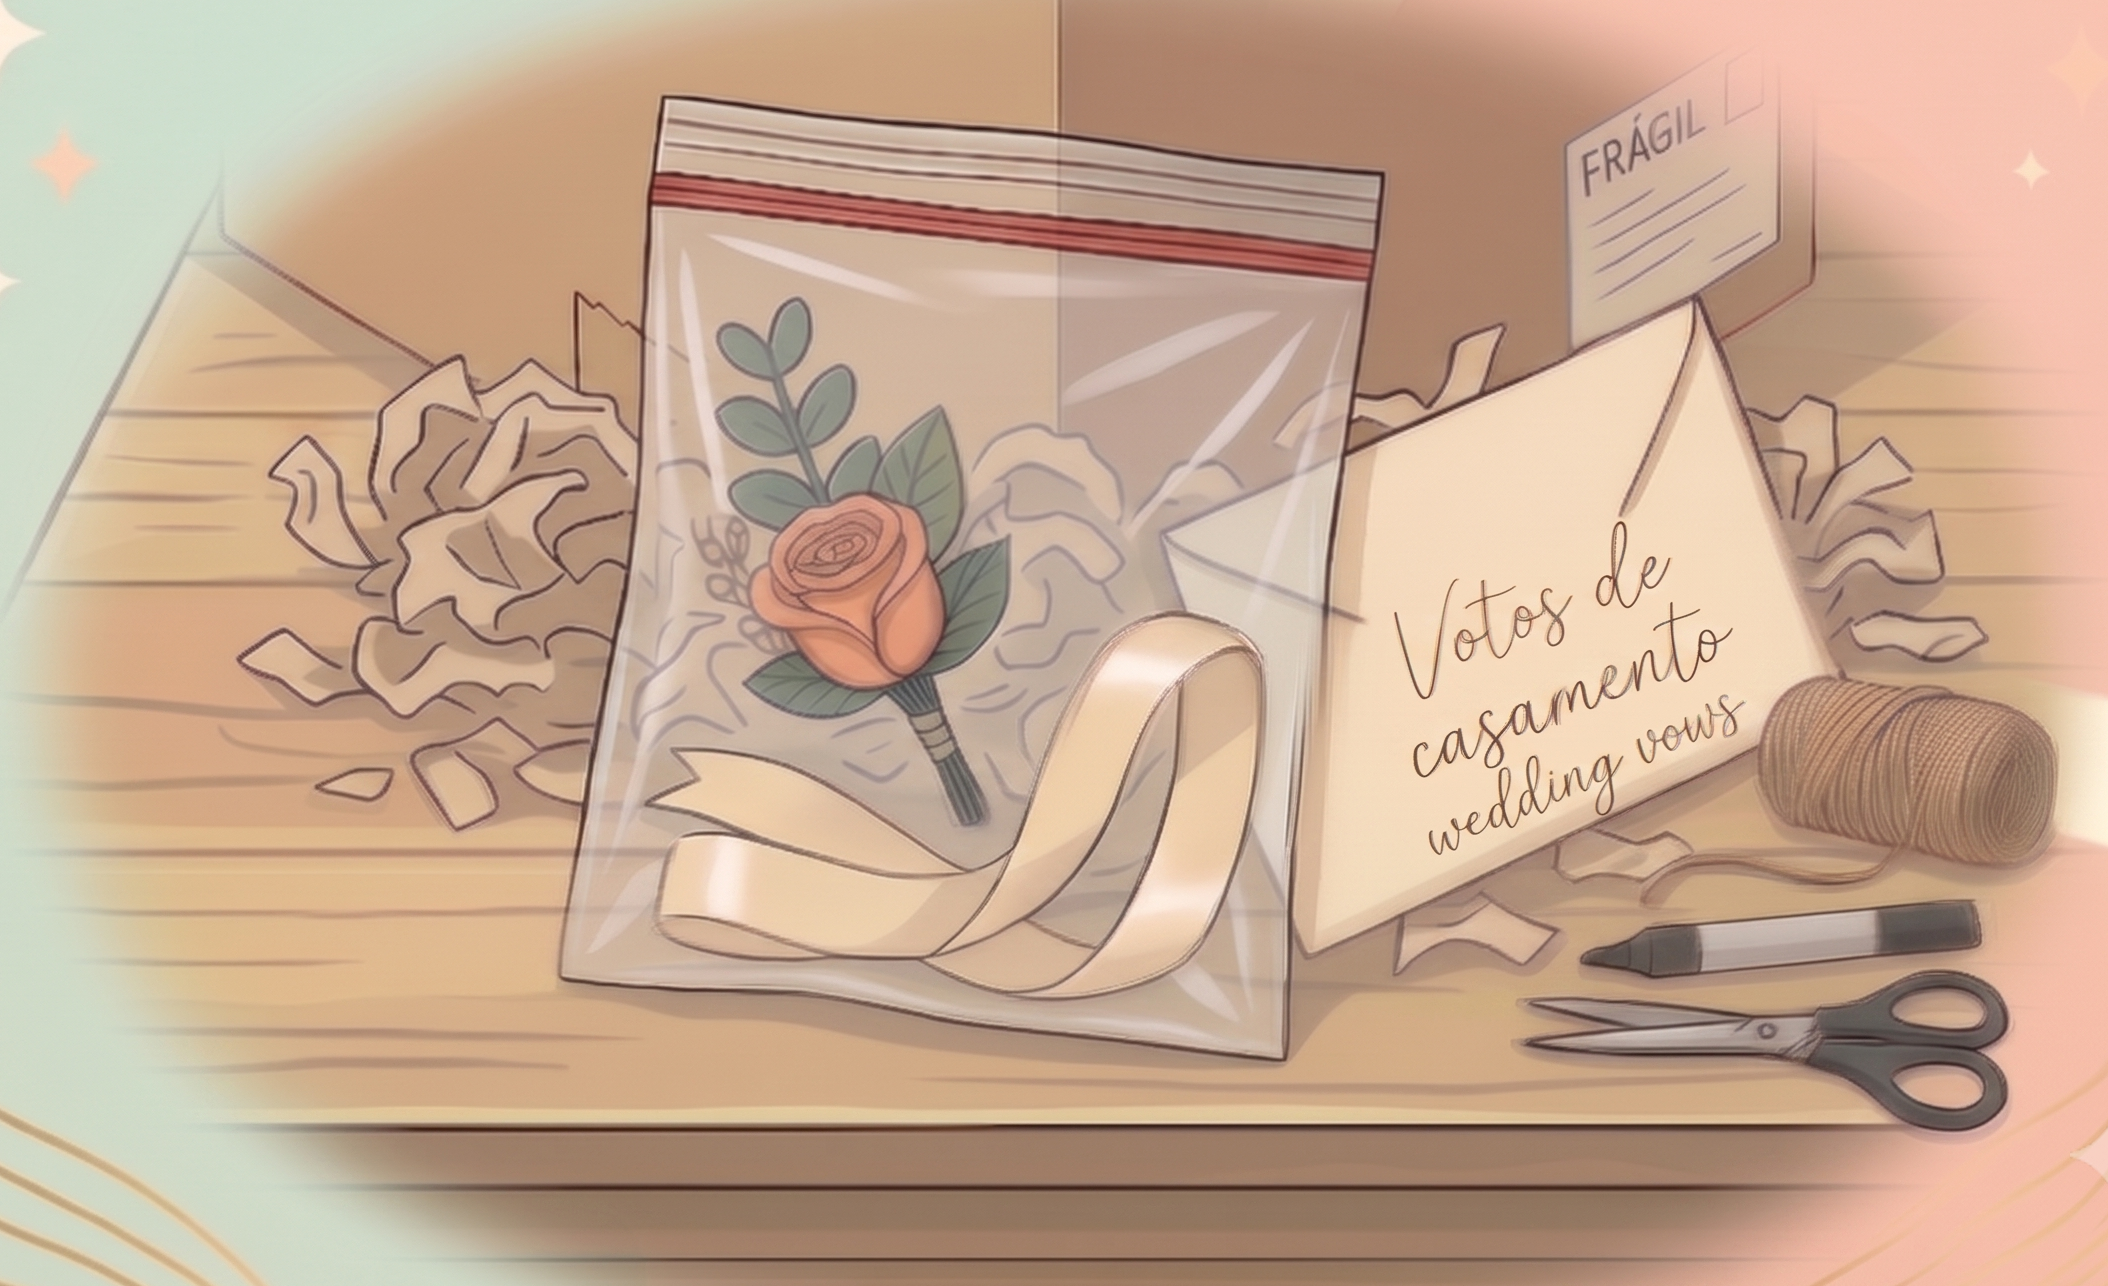
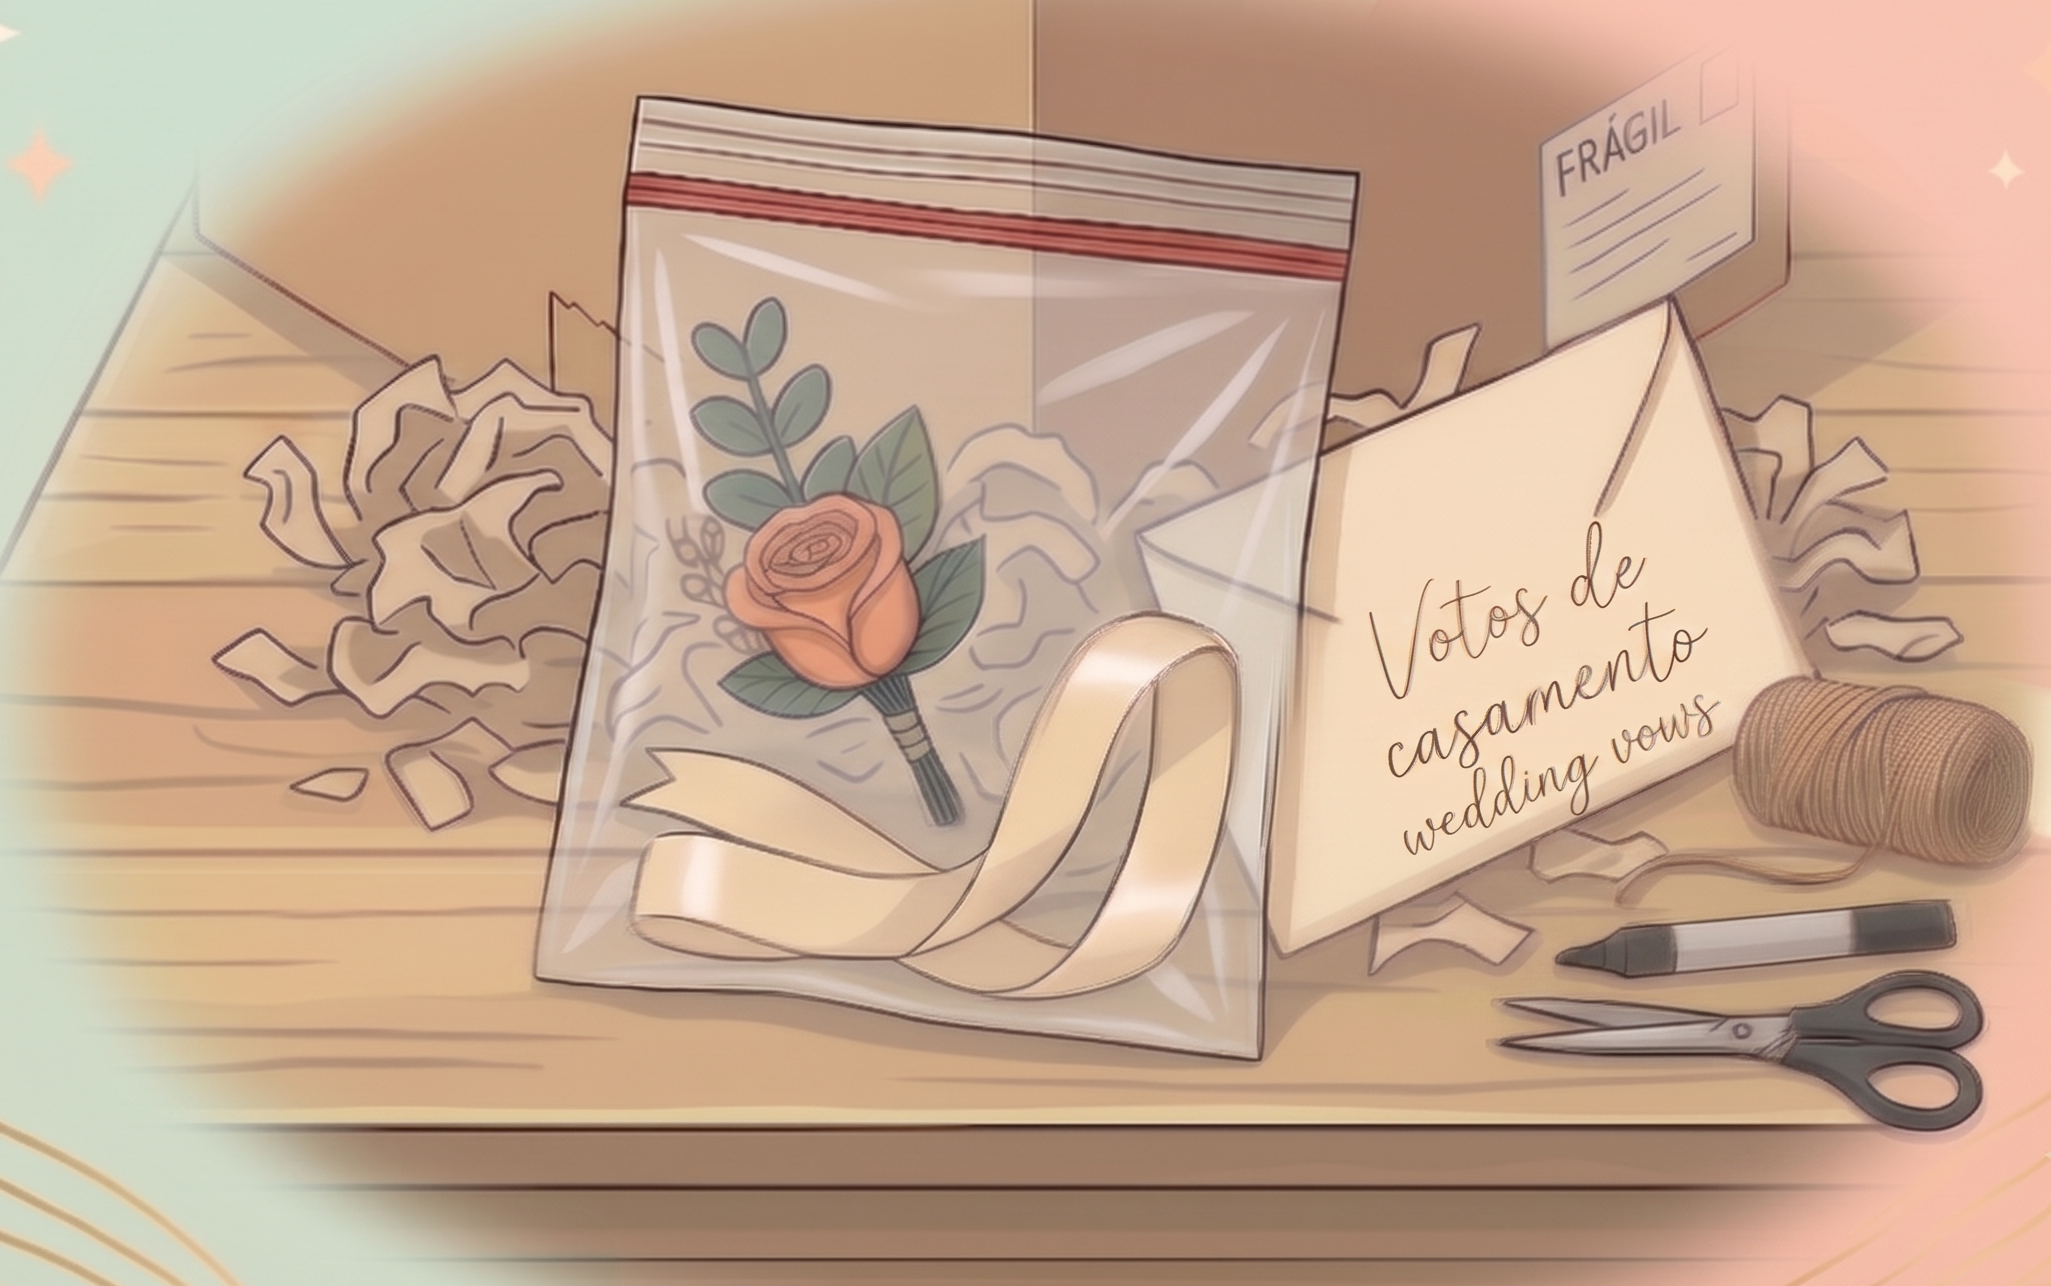
Switch step layout to a uniform card grid
The side-thumbnail timeline looked sparse and uneven on desktop because
the step images have mixed aspect ratios. Replaces it with a two-column
card grid (one column on mobile) where each image fills a uniform 16:10
top via object-fit cover, so all steps render at the same size with no
frame or letterbox. Step number overlaid on the image.

diff --git a/app/enviar-flores-por-correio/EnviarFloresClient.jsx b/app/enviar-flores-por-correio/EnviarFloresClient.jsx
@@ -91,15 +91,15 @@ export default function EnviarFloresClient() {
           </motion.div>
         </header>
 
-        <div style={{ maxWidth: "760px", margin: "0 auto", padding: "clamp(36px,6vw,60px) clamp(20px,5vw,40px) 0" }}>
+        <div style={{ maxWidth: "1000px", margin: "0 auto", padding: "clamp(36px,6vw,60px) clamp(20px,5vw,40px) 0" }}>
 
           {/* ── TIMING NOTE ─────────────────────────────────────────── */}
-          <motion.p {...fadeUp} style={{ padding: "clamp(14px,2.5vw,18px) clamp(16px,3vw,22px)", borderRadius: "12px", backgroundColor: "rgba(200,82,42,0.05)", borderLeft: "3px solid rgba(200,82,42,0.3)", color: "var(--rust)", fontSize: "clamp(0.86rem,1.7vw,0.96rem)", lineHeight: 1.7, margin: "0 0 clamp(40px,7vw,64px)" }}>
+          <motion.p {...fadeUp} style={{ maxWidth: "720px", padding: "clamp(14px,2.5vw,18px) clamp(16px,3vw,22px)", borderRadius: "12px", backgroundColor: "rgba(200,82,42,0.05)", borderLeft: "3px solid rgba(200,82,42,0.3)", color: "var(--rust)", fontSize: "clamp(0.86rem,1.7vw,0.96rem)", lineHeight: 1.7, margin: "0 auto clamp(40px,7vw,64px)" }}>
             {t("introDesc")}
           </motion.p>
 
           {/* ── MATERIALS CHECKLIST ─────────────────────────────────── */}
-          <motion.section {...fadeUp} aria-label={t("materiaisTitle")} style={{ backgroundColor: "#fff", borderRadius: "18px", padding: "clamp(20px,4vw,32px)", border: "1px solid rgba(200,82,42,0.1)", boxShadow: "0 4px 18px rgba(160,60,20,0.05)", marginBottom: "clamp(48px,8vw,72px)" }}>
+          <motion.section {...fadeUp} aria-label={t("materiaisTitle")} style={{ maxWidth: "720px", margin: "0 auto clamp(48px,8vw,72px)", backgroundColor: "#fff", borderRadius: "18px", padding: "clamp(20px,4vw,32px)", border: "1px solid rgba(200,82,42,0.1)", boxShadow: "0 4px 18px rgba(160,60,20,0.05)" }}>
             <div className="ship-materials">
               <div className="ship-materials-img">
                 <Image src={imgMateriais} alt={t("materiaisAlt")} sizes="(max-width: 600px) 260px, 230px" />
@@ -116,36 +116,34 @@ export default function EnviarFloresClient() {
             </div>
           </motion.section>
 
-          {/* ── TIMELINE ────────────────────────────────────────────── */}
+          {/* ── STEP CARDS ──────────────────────────────────────────── */}
           <section aria-label={t("passosTitle")} style={{ marginBottom: "clamp(48px,8vw,72px)" }}>
             <motion.h2 {...fadeUp} style={{ fontFamily: "'TAN-MEMORIES', serif", fontSize: "clamp(1.5rem,3.6vw,2.3rem)", color: "var(--green-d)", textAlign: "center", margin: "0 0 clamp(32px,6vw,52px)", lineHeight: 1.15 }}>
               {t("passosTitle")}
             </motion.h2>
-            <ol className="ship-timeline">
+            <div className="ship-cards">
               {passos.map((step, i) => (
-                <motion.li key={i} {...fadeUp} id={`passo-${i + 1}`} className="ship-tl-item" aria-labelledby={`passo-${i + 1}-title`}>
-                  <span className="ship-tl-num" aria-hidden="true">{step.n}</span>
-                  <div className="ship-tl-content">
-                    <div className="ship-tl-thumb">
-                      <Image src={STEP_IMAGES[i]} alt={step.alt} sizes="(max-width: 560px) 280px, 210px" />
-                    </div>
-                    <div className="ship-tl-body">
-                      <h3 id={`passo-${i + 1}-title`} style={{ fontFamily: "'TAN-MEMORIES', serif", fontSize: "clamp(1.15rem,2.6vw,1.45rem)", color: "var(--green-d)", margin: "0 0 8px", lineHeight: 1.2 }}>
-                        {step.titulo}
-                      </h3>
-                      <p style={{ color: "var(--mid)", lineHeight: 1.75, fontSize: "clamp(0.88rem,1.7vw,0.96rem)", margin: 0 }}>{step.corpo}</p>
-                      {step.nota && (
-                        <p style={{ marginTop: "10px", color: "var(--rust)", fontSize: "clamp(0.8rem,1.5vw,0.86rem)", lineHeight: 1.6, fontStyle: "italic", margin: "10px 0 0" }}>{step.nota}</p>
-                      )}
-                    </div>
+                <motion.article key={i} {...fadeUp} id={`passo-${i + 1}`} className="ship-card" aria-labelledby={`passo-${i + 1}-title`}>
+                  <div className="ship-card-img">
+                    <span className="ship-card-num" aria-hidden="true">{step.n}</span>
+                    <Image fill src={STEP_IMAGES[i]} alt={step.alt} sizes="(max-width: 680px) 100vw, 480px" />
                   </div>
-                </motion.li>
+                  <div className="ship-card-body">
+                    <h3 id={`passo-${i + 1}-title`} style={{ fontFamily: "'TAN-MEMORIES', serif", fontSize: "clamp(1.2rem,2.6vw,1.5rem)", color: "var(--green-d)", margin: "0 0 10px", lineHeight: 1.2 }}>
+                      {step.titulo}
+                    </h3>
+                    <p style={{ color: "var(--mid)", lineHeight: 1.75, fontSize: "clamp(0.88rem,1.7vw,0.96rem)", margin: 0 }}>{step.corpo}</p>
+                    {step.nota && (
+                      <p style={{ color: "var(--rust)", fontSize: "clamp(0.8rem,1.5vw,0.86rem)", lineHeight: 1.6, fontStyle: "italic", margin: "12px 0 0" }}>{step.nota}</p>
+                    )}
+                  </div>
+                </motion.article>
               ))}
-            </ol>
+            </div>
           </section>
 
           {/* ── WHAT TO AVOID ───────────────────────────────────────── */}
-          <motion.section {...fadeUp} aria-label={t("naoTitle")} style={{ backgroundColor: "rgba(200,82,42,0.04)", borderRadius: "16px", padding: "clamp(20px,4vw,30px)", border: "1px solid rgba(200,82,42,0.1)", marginBottom: "clamp(56px,9vw,84px)" }}>
+          <motion.section {...fadeUp} aria-label={t("naoTitle")} style={{ maxWidth: "720px", margin: "0 auto clamp(56px,9vw,84px)", backgroundColor: "rgba(200,82,42,0.04)", borderRadius: "16px", padding: "clamp(20px,4vw,30px)", border: "1px solid rgba(200,82,42,0.1)" }}>
             <h2 style={{ fontFamily: "'TAN-MEMORIES', serif", fontSize: "clamp(1.3rem,3vw,1.7rem)", color: "var(--green-d)", margin: "0 0 clamp(16px,3vw,22px)", lineHeight: 1.1 }}>{t("naoTitle")}</h2>
             <ul className="ship-avoid-list">
               {naoItens.map((item, i) => (

diff --git a/app/enviar-flores-por-correio/EnviarFloresClient.css b/app/enviar-flores-por-correio/EnviarFloresClient.css
@@ -8,26 +8,25 @@
 @media (min-width: 420px) { .ship-materials-list { grid-template-columns: 1fr 1fr; } }
 .ship-materials-item { display: flex; gap: 10px; align-items: flex-start; color: var(--mid); font-size: 0.9rem; line-height: 1.4; }
 
-/* ── Vertical timeline ────────────────────────────────────────────────── */
-.ship-timeline { position: relative; max-width: 660px; margin: 0 auto; padding: 0; list-style: none; }
-.ship-tl-item { position: relative; display: grid; grid-template-columns: 38px 1fr; gap: clamp(14px,3vw,22px); padding-bottom: clamp(28px,5vw,44px); }
-.ship-tl-item:last-child { padding-bottom: 0; }
-.ship-tl-item:not(:last-child)::before {
-  content: ""; position: absolute; left: 18px; top: 40px; bottom: 0;
-  width: 2px; background: rgba(200,82,42,0.18);
+/* ── Step cards grid ──────────────────────────────────────────────────── */
+.ship-cards { display: grid; grid-template-columns: 1fr; gap: clamp(18px,3vw,28px); }
+@media (min-width: 680px) { .ship-cards { grid-template-columns: 1fr 1fr; } }
+.ship-card {
+  display: flex; flex-direction: column; overflow: hidden;
+  background: #fff; border: 1px solid rgba(200,82,42,0.1); border-radius: 18px;
+  box-shadow: 0 4px 18px rgba(160,60,20,0.05);
 }
-.ship-tl-num {
-  position: relative; z-index: 1; width: 38px; height: 38px; border-radius: 50%;
+.ship-card-img { position: relative; aspect-ratio: 16 / 10; background: #F5EDE0; }
+.ship-card-img img { object-fit: cover; }
+.ship-card-num {
+  position: absolute; top: 14px; left: 14px; z-index: 1;
+  width: 36px; height: 36px; border-radius: 50%;
   background: var(--rust); color: var(--cream);
   display: flex; align-items: center; justify-content: center;
-  font-family: 'TAN-MEMORIES', serif; font-size: 0.95rem;
+  font-family: 'TAN-MEMORIES', serif; font-size: 0.92rem;
+  box-shadow: 0 2px 10px rgba(0,0,0,0.22);
 }
-.ship-tl-content { display: flex; flex-direction: column; gap: 14px; }
-@media (min-width: 560px) { .ship-tl-content { flex-direction: row; align-items: flex-start; gap: 22px; } }
-.ship-tl-thumb { width: 100%; max-width: 280px; }
-@media (min-width: 560px) { .ship-tl-thumb { width: 210px; max-width: none; flex-shrink: 0; } }
-.ship-tl-thumb img { width: 100%; height: auto; display: block; border-radius: 12px; }
-.ship-tl-body { flex: 1; }
+.ship-card-body { padding: clamp(16px,2.5vw,24px); }
 
 /* ── What to avoid strip ──────────────────────────────────────────────── */
 .ship-avoid-list { display: grid; grid-template-columns: 1fr; gap: 10px 24px; margin: 0; padding: 0; list-style: none; }
